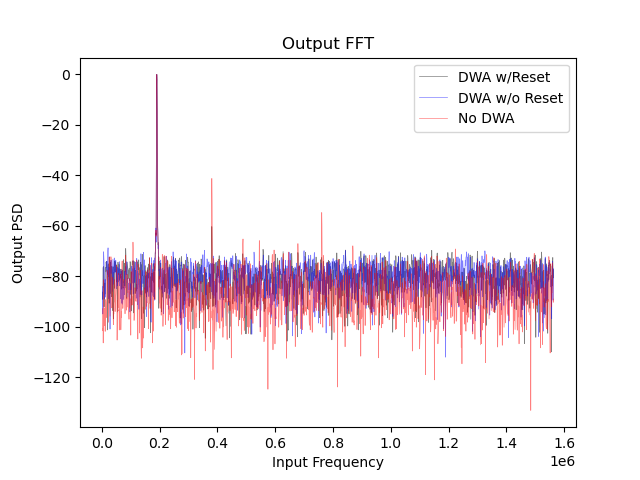
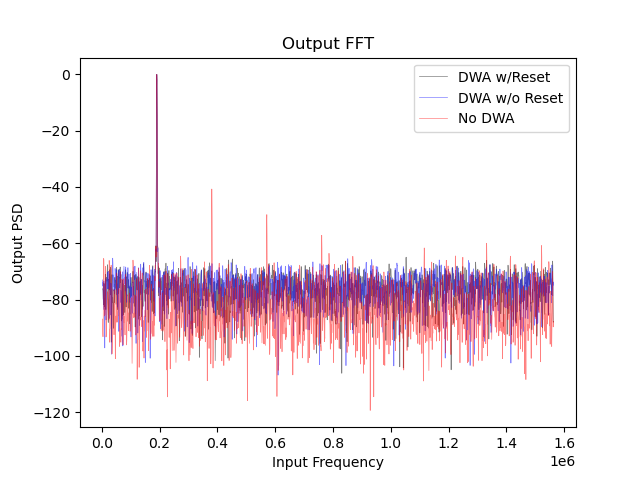
removed pycache and added Python sim to README

diff --git a/README.md b/README.md
@@ -45,3 +45,10 @@ The analog circuitry is on the left, and the digital on the right. The digital l
 ![Block Diagram](./img/block_diagram.png)
 
 ## Python Simulation
+The Python simulation shows an SNR of over 40 dB. This is discounting mismatch
+noise, but DWA is shown to significantly reduce harmonics introduced by
+capacitor mismatch, which is significant on discrete components.
+
+![IADC Simulation](./img/dwa_compare.png)
+
+This is with a single stage IADC.
